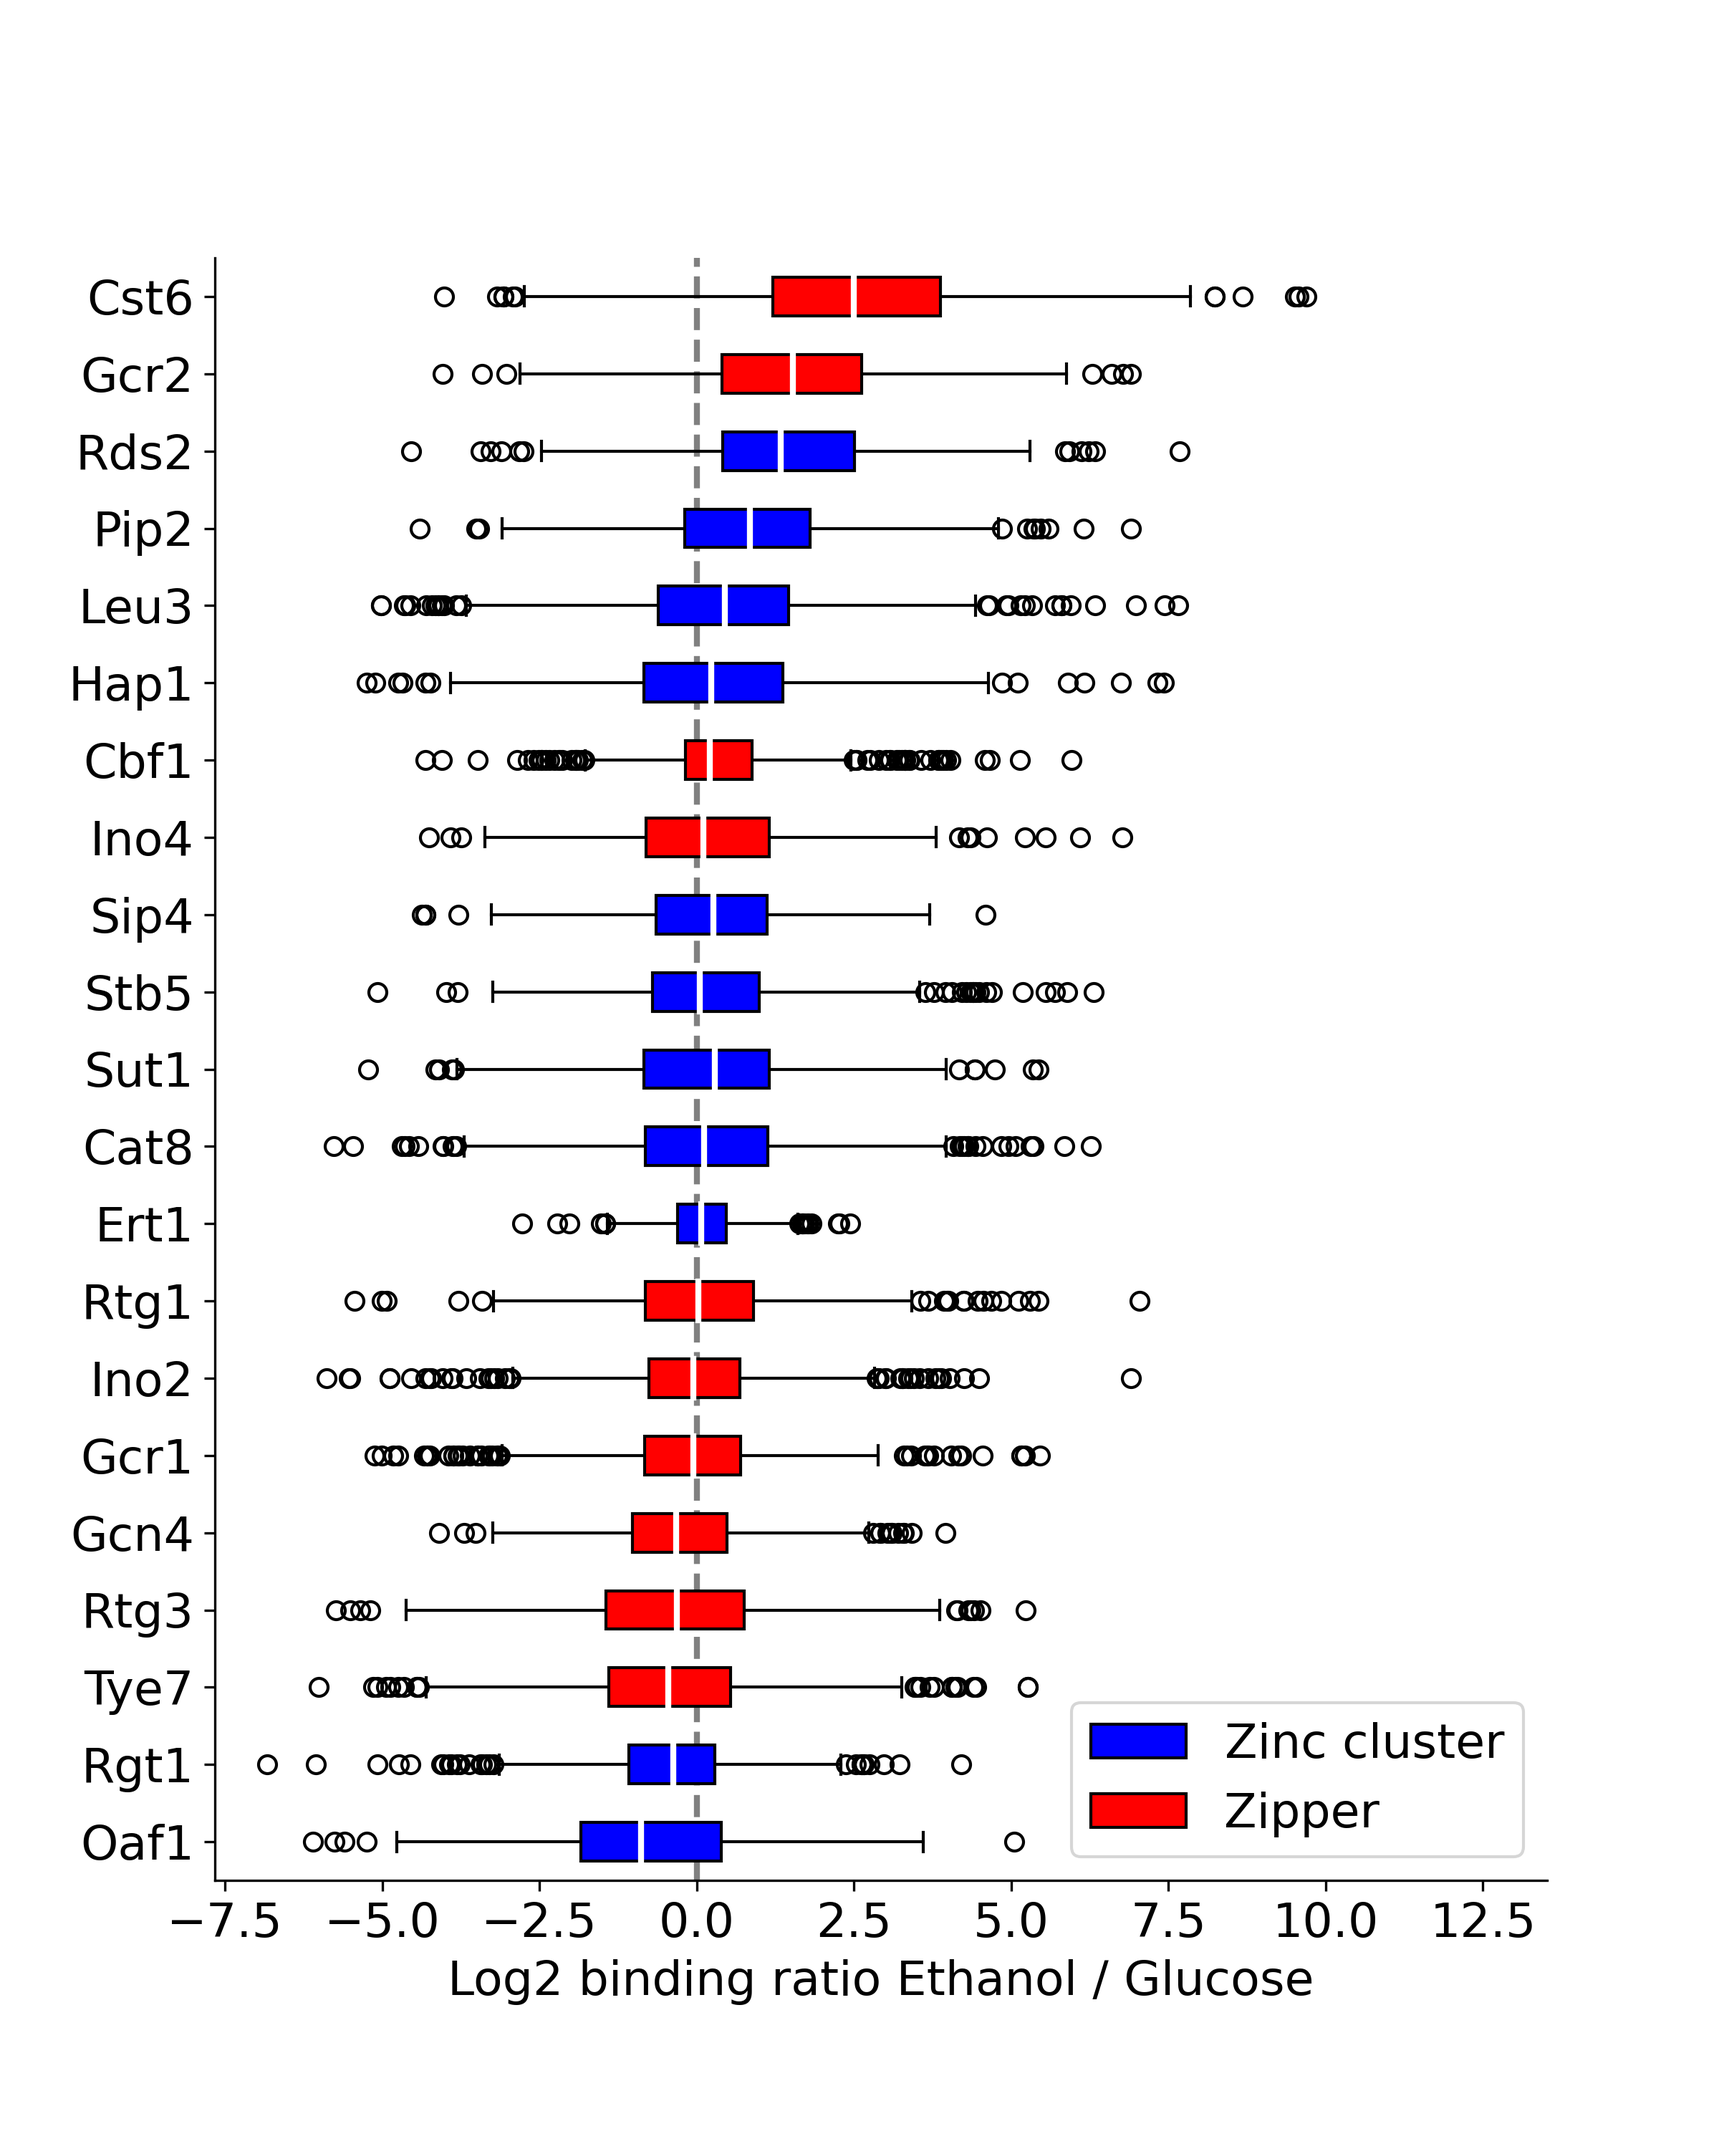
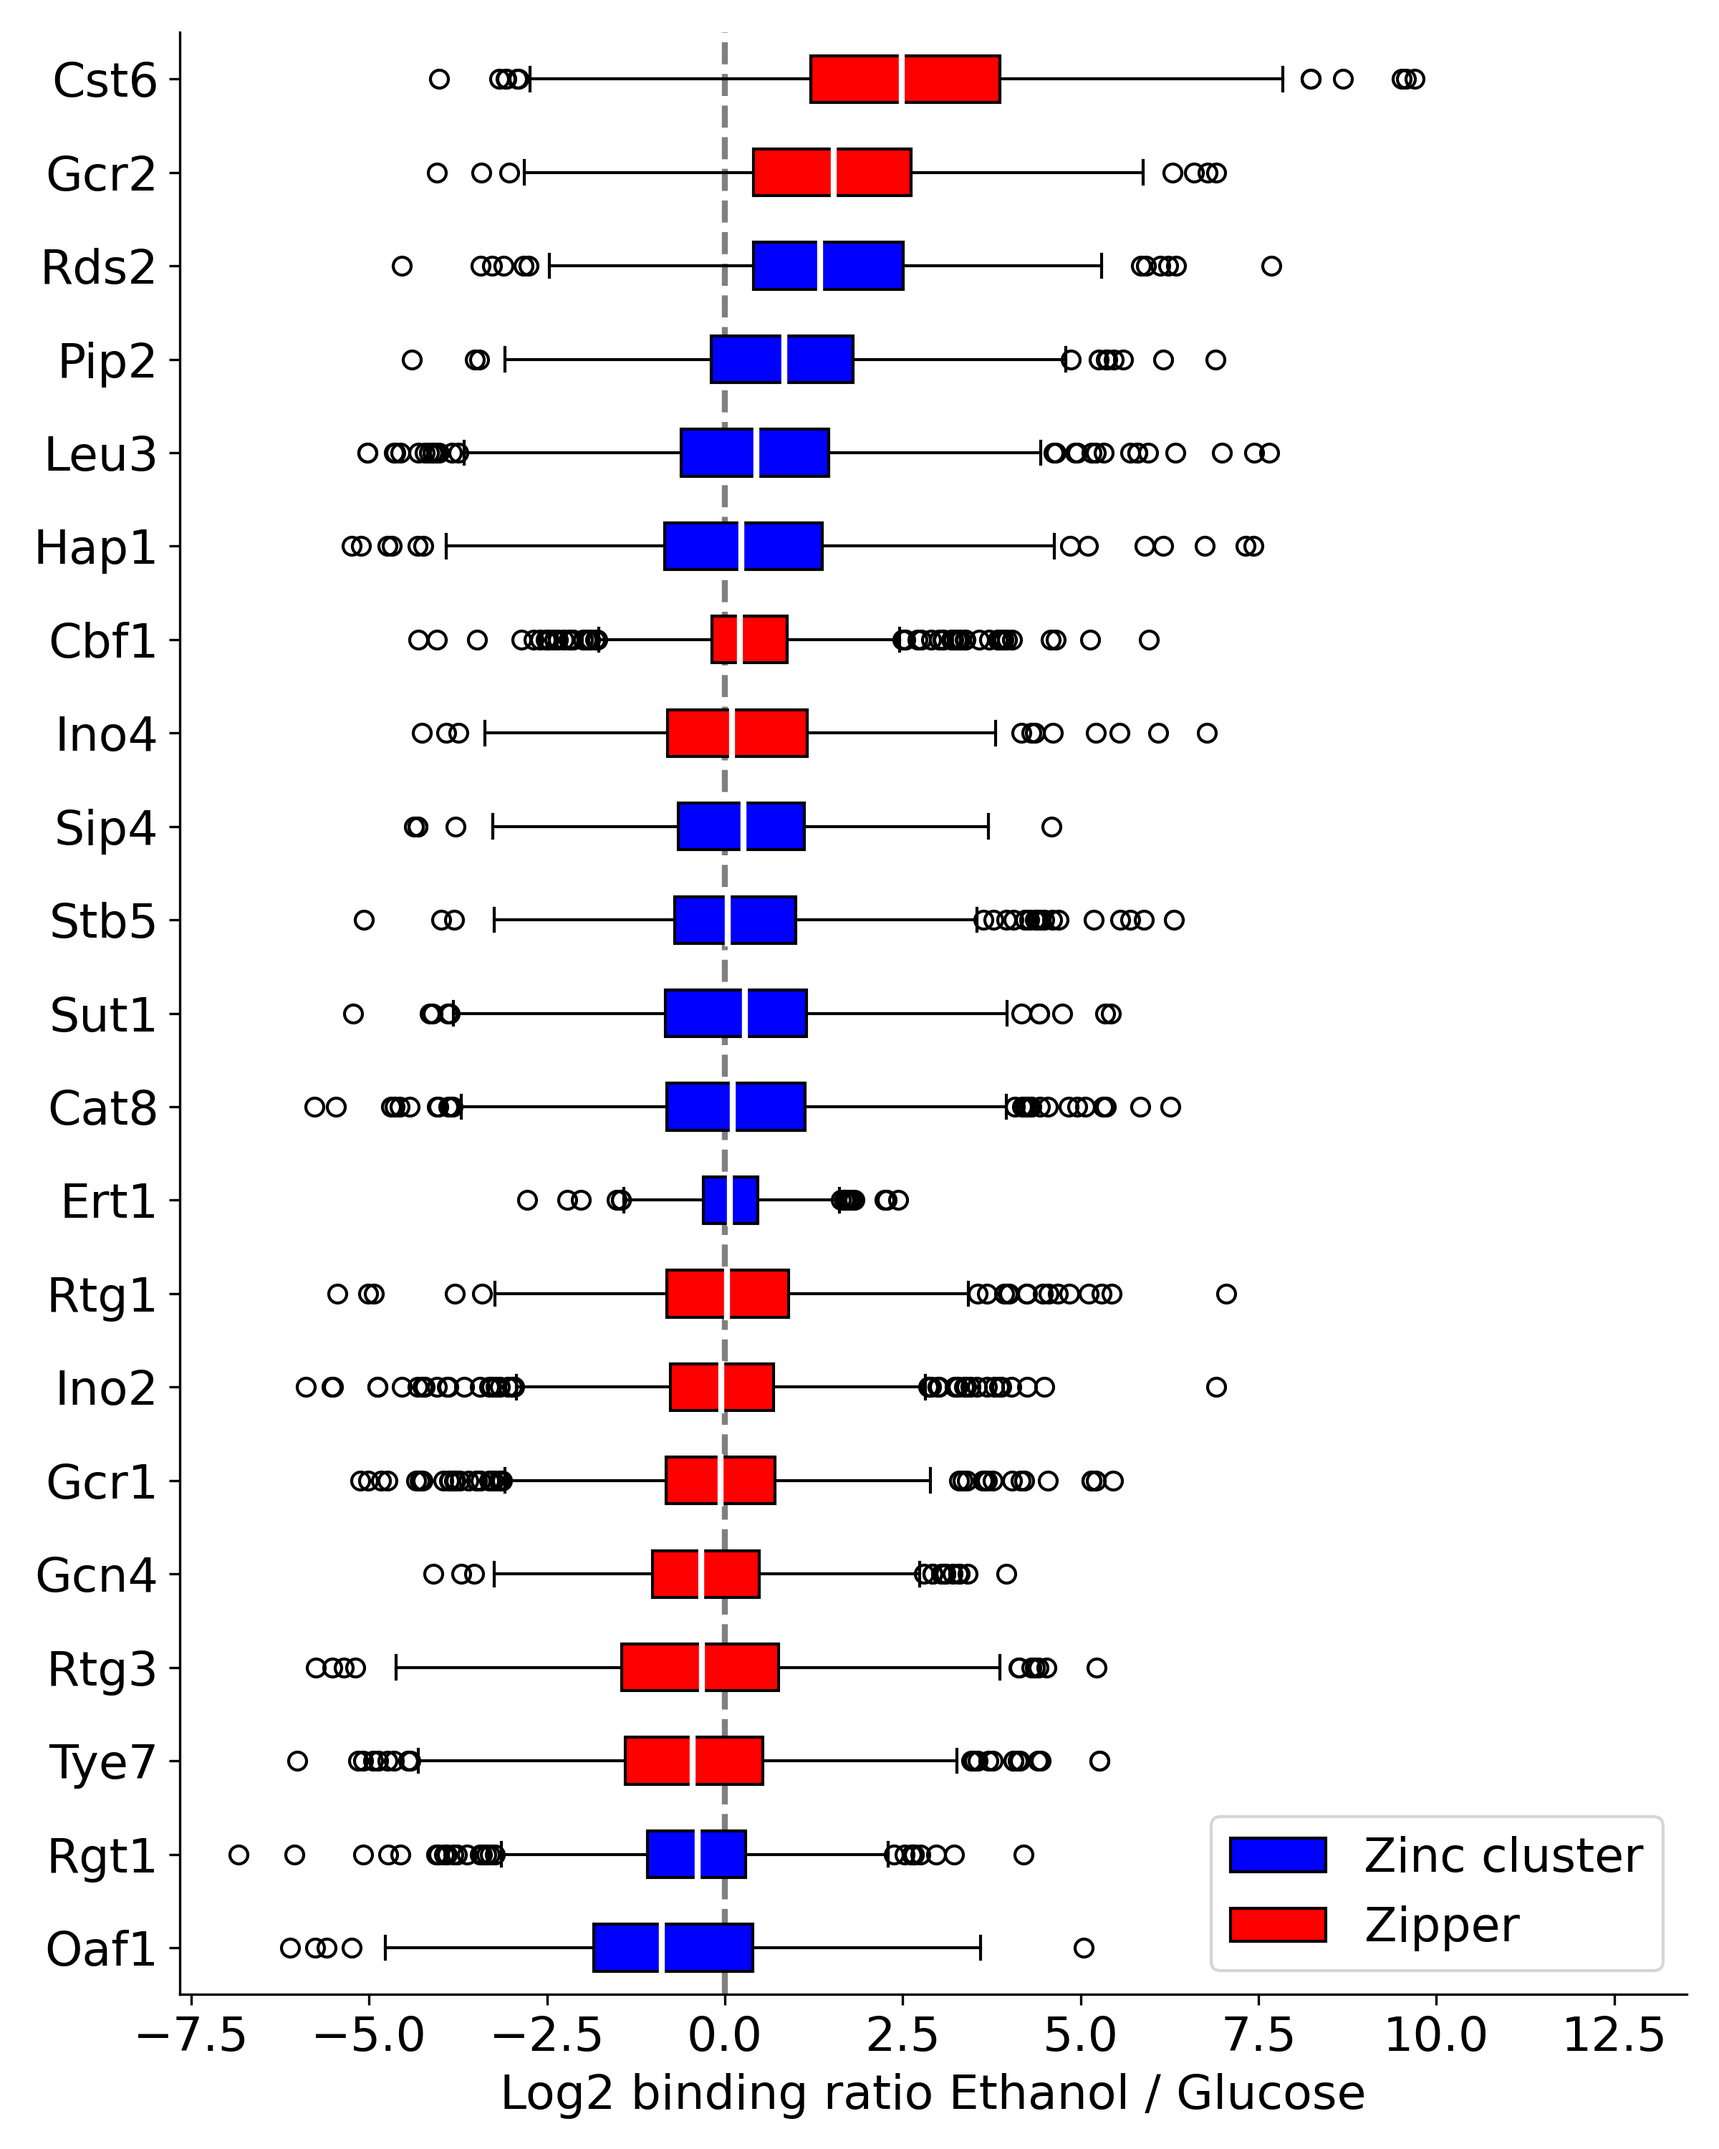
Updated plotting for uniform look

diff --git a/Hyena_Analyse_TFBinding.py b/Hyena_Analyse_TFBinding.py
@@ -82,7 +82,9 @@ ax.xaxis.set_tick_params(labelsize = 16)
 ax.yaxis.set_tick_params(labelsize = 16)
 ax.spines['top'].set_visible(False)
 ax.spines['right'].set_visible(False)
+plt.ylim(-0.5,20.5)
 plt.legend(fontsize = 16)
+plt.tight_layout()
 plt.savefig('Results/ConditonalTFBinding_PercentOverview.png', dpi = 300, tight = True)
 plt.show()
 
@@ -106,8 +108,10 @@ ax.xaxis.set_tick_params(labelsize = 16)
 ax.yaxis.set_tick_params(labelsize = 16)
 ax.spines['top'].set_visible(False)
 ax.spines['right'].set_visible(False)
+plt.ylim()
 [xmin, xmax] = plt.xlim()
 plt.xlim([xmin, xmax + 3])
 plt.legend([x["boxes"][0] for x in boxplot_groups.values()], boxplot_groups.keys(), fontsize = 16)
+plt.tight_layout()
 plt.savefig('Results/ConditonalTFBinding_Log2Ratios.png', dpi = 300, tight = True)
 plt.show()
